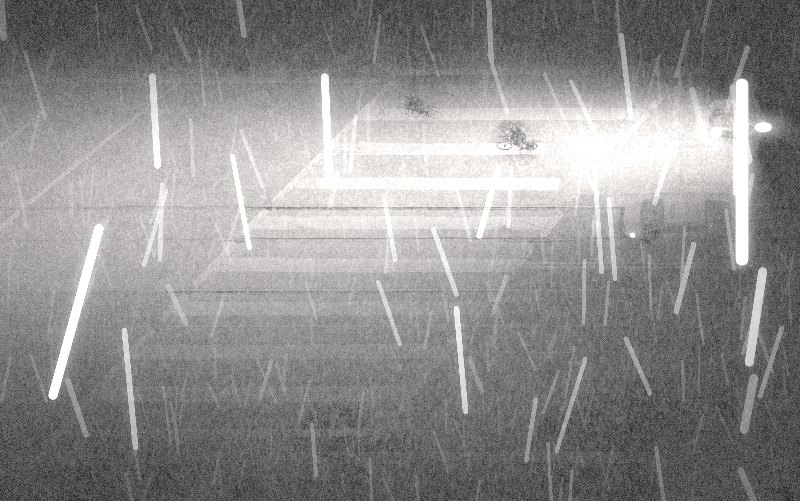
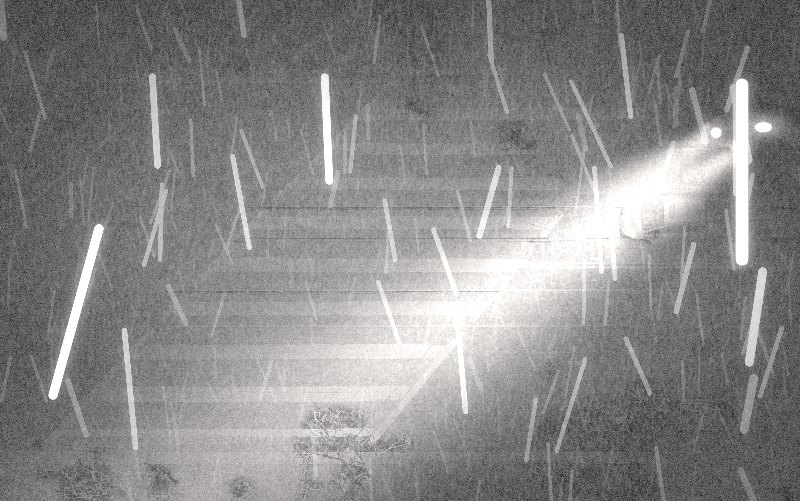
Road surface guide and night pictures: how a vehicle's beams are placed

diff --git a/docs/road_surface.md b/docs/road_surface.md
@@ -356,17 +356,40 @@ provider knows where the points are
   further than in daylight rain because the camera has opened up for the
   dark, and they bloom. They are white whichever end they are on: with the
   infrared-cut filter out, a red lamp is a bright lamp and no more.
-- **Each lit vehicle throws its beam** on the road ahead of it: from its
-  front, widening, several times what a street lamp puts under itself,
-  half as strong at fourteen metres and gone by seventy-five, and cut off
-  above the height of a bonnet, as a dipped beam is. Which way it points
-  is which end is seen: away from the camera for a vehicle seen from
-  behind, whose beam shows as the road lit beyond it and to either side,
-  and at the camera for one seen from the front. Where the outline is
-  long, as seen from above, its long way is the heading. Where a
-  vehicle's lamps sit on its outline is not used: on a car seen from
-  behind at a low angle they are above its middle, and beams taken from
-  that were thrown back at the camera.
+- **Each lit vehicle throws two beams**, one from each headlamp, on the
+  road ahead of it: two narrow pools just ahead of its front that widen
+  and run into one within a few metres, several times what a street lamp
+  puts under itself, half as strong at fourteen metres and gone by
+  seventy-five, and cut off above the height of a bonnet, as a dipped beam
+  is.
+- **Which way a vehicle points** is first which end is seen: away from the
+  camera for one seen from behind, at it for one seen from the front. Then
+  how its outline leans from its pair of lamps: seen from one side as
+  well, its body shows on that side of them, and it is turned that way,
+  by an angle that is a ratio of two lengths in the picture and needs no
+  distances. Where no pair was found, the long way of an outline seen from
+  above. Neither where the lamps sit above or below the middle of the
+  outline nor the slope of the line between them is used: the first threw
+  beams back at the camera, the second turned a van through a right angle
+  for an error of a few pixels.
+- **Where its beams start, and how large they are, is its own lamps'
+  doing.** A pair of lamps is two points 1.4 m apart, 0.8 m up, on a known
+  end. The end that is seen is on the ground under the middle of them, and
+  the front of a vehicle seen from behind is a vehicle's length further
+  along its heading. Their spacing on the ground is the vehicle's scale: a
+  camera's height is known only roughly, the ground's plane with it, and a
+  car measured in the plane's units may be two cars long, so a vehicle's
+  length and its beam's reach are in its own metres. Two things were
+  tried first and were wrong: the lowest point of the outline, which is
+  the corner nearest the camera; and the far end of the outline, which,
+  shared out among touching vehicles, has pieces of its neighbours in it,
+  and put one car's beam on the bumper of the next.
+- **Where the road is**, for a beam, is the ground's plane wherever the
+  picture shows something at least as far off as the plane and not known
+  to stand on it. A road in the deep shade under a bridge comes out of a
+  depth map far beyond where it is and out of the labels as a wall; a car
+  driving into it lights it all the same, and the shade, which was the
+  day's light and not the road, does not keep it black.
 
 Lamps are added as light, after the illuminator's falloff and the
 auto-exposure, so neither dims them, and whatever follows in a pipeline,
